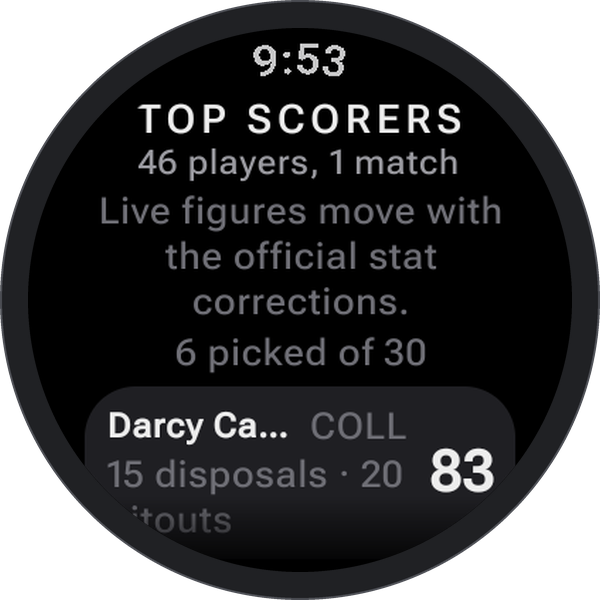
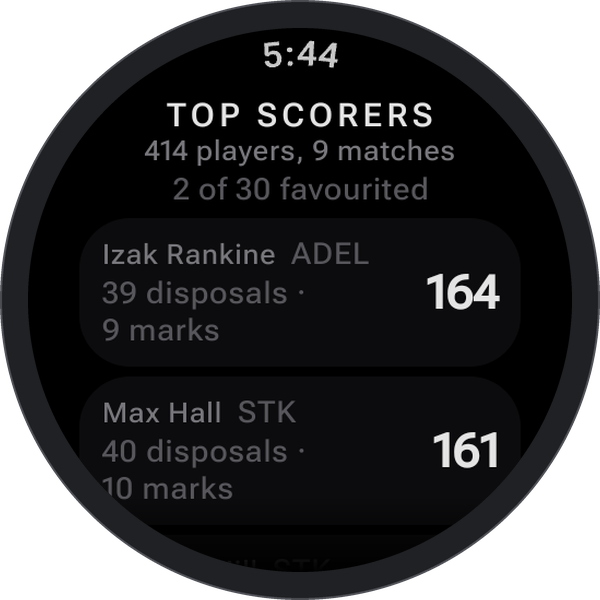
Reshoot the site from the live watch, and say what 1.2.0 added
Every Wear image on the page is a fresh capture taken off the watch during
round 23 with two matches live, rather than a mix of captures from three
different weekends.

The alt text went with them. It described the old pictures down to the
scoreline, so leaving it would have had the page assert Carlton 106 beside
a picture of Carlton 53.

Three things on the page were no longer true:

  - AFLW was illustrated but never claimed to be live, because until this
    release it was not. It now updates during the match.
  - The ladder gallery slot showed the Apple table under a caption about
    column headings and percentage, which only the Wear table has. The
    picture now matches the words - the same caption/image mismatch this
    page has already been caught out by twice.
  - "A line drawn at the top eight" has not been the finals format since
    2025. The app draws one after sixth and another after tenth.

make_shots.py could no longer find a single source: the store set was
renumbered when it was recaptured. It now names the folder it reads from
in the failure, and the three screens the page shows that the store set
has no room for live in their own folder so recapturing one cannot empty
the other.

Claude-Session: https://claude.ai/code/session_01Q4DnvPAu4Pm5cXcWpZ1qkt

Changed region(s): [[0.15, 0.06, 0.84, 0.63], [0.15, 0.66, 0.69, 0.9], [0.72, 0.72, 0.84, 0.84]]

diff --git a/index.html b/index.html
@@ -98,7 +98,7 @@
       <div class="feature feature-lead">
         <figure class="shot shot-round">
           <img src="img/w-round.png" width="300" height="300" loading="lazy" decoding="async"
-               alt="A round watch showing AFL Round 22: Carlton 106, St Kilda 62 at full time, and Collingwood 117, West Coast 98 below it.">
+               alt="A round watch showing AFL Round 23, two matches live: Carlton 53 and the Bulldogs 53 in the third quarter, with Sydney 18 and Essendon 12 in the first beneath it.">
         </figure>
         <div>
           <h2>Live Scores</h2>
@@ -110,12 +110,13 @@
       <div class="feature feature-flip">
         <figure class="shot shot-round">
           <img src="img/w-aflw.png" width="300" height="300" loading="lazy" decoding="async"
-               alt="A round watch showing AFLW Round 1: Melbourne against Hawthorn, live, with the men's round 22 results below.">
+               alt="A round watch showing AFLW Round 1, one match live: West Coast 1.2 (8) against GWS 2.0 (12) in the first quarter, with a completed match beneath it.">
         </figure>
         <div>
           <h2>Both Codes</h2>
           <p>AFL and AFLW each get their own block, with their own round above it.</p>
-          <p>In August one is on round 22 and the other on round 1. You can read both without working out which is which.</p>
+          <p>In August one is on round 23 and the other on round 1. You can read both without working out which is which.</p>
+          <p>AFLW scores now move while the match is on, quarter and clock included, rather than arriving at the final siren.</p>
           <p>Turn either off if you only follow the one.</p>
         </div>
       </div>
@@ -124,11 +125,11 @@
       <div class="feature feature-flip">
         <figure class="shot shot-round">
           <img src="img/w-fantasy.png" width="300" height="300" loading="lazy" decoding="async"
-               alt="Top scorers on a round watch: 46 players across 1 match, with Darcy on 83 from 15 disposals and 20 hitouts.">
+               alt="Top scorers on a round watch: 414 players across 9 matches, with Izak Rankine on 164 from 39 disposals and 9 marks.">
         </figure>
         <div>
           <h2>Fantasy Scores</h2>
-          <p>Top scorers for the day, with AFL Fantasy and DreamTeam points worked out live from the play by play.</p>
+          <p>Top scorers for the round, with AFL Fantasy and DreamTeam points worked out live from the play by play.</p>
           <p>Tap players to follow your own squad, and watch their totals move during the game.</p>
           <p class="small">On both watches.</p>
         </div>
@@ -137,7 +138,7 @@
       <div class="feature feature-flip">
         <figure class="shot shot-round">
           <img src="img/w-match.png" width="300" height="300" loading="lazy" decoding="async"
-               alt="One match at Marvel Stadium: Carlton 106 from 16.10, St Kilda 62 from 8.14, with the score by quarter beneath.">
+               alt="One match at Marvel Stadium at half time: Carlton 41 from 6.5, the Bulldogs 46 from 7.4, with the score by quarter beneath.">
         </figure>
         <div>
           <h2>Match Detail</h2>
@@ -148,7 +149,7 @@
       <div class="feature">
         <figure class="shot shot-round">
           <img src="img/w-goals.png" width="300" height="300" loading="lazy" decoding="async"
-               alt="The goal feed: M. Hall for St Kilda in the last quarter making it 106 to 62, then T. Byrne for Carlton.">
+               alt="The goal feed: P. Cripps for Carlton in the second quarter making it 41 to 46, then J. Dolan for the Bulldogs.">
         </figure>
         <div>
           <h2>Every Goal</h2>
@@ -159,7 +160,7 @@
       <div class="feature feature-flip">
         <figure class="shot shot-round">
           <img src="img/w-spoilers.png" width="300" height="300" loading="lazy" decoding="async"
-               alt="The round with every score hidden: dashes where the numbers would be, and the note that a match is final.">
+               alt="The round with every score hidden: dashes where the numbers would be, with a match still marked live and at half time.">
         </figure>
         <div>
           <h2>Spoiler Free</h2>
@@ -178,9 +179,9 @@
 
       <div class="gallery">
         <figure>
-          <img src="img/a-ladder.png" width="200" height="234" loading="lazy" decoding="async"
-               alt="The ladder on Apple Watch: Fremantle first on 72 points, Sydney second on 64, Hawthorn third on 58, with percentages beside them.">
-          <figcaption><strong>The ladder.</strong> Points, record and percentage, with a line drawn at the top eight.</figcaption>
+          <img src="img/w-ladder.png" width="230" height="230" loading="lazy" decoding="async"
+               alt="The ladder after round 23 under W-L, percentage and points headings: Freo first on 76, Swans 64, Lions 60, Hawks 60.">
+          <figcaption><strong>The ladder.</strong> Record, percentage and points under their own headings, with your club picked out, a line after sixth for the clubs with the week off and another after tenth for the cut.</figcaption>
         </figure>
         <figure>
           <img src="img/w-finals.png" width="230" height="230" loading="lazy" decoding="async"
@@ -189,8 +190,8 @@
         </figure>
         <figure>
           <img src="img/w-tile.png" width="230" height="230" loading="lazy" decoding="async"
-               alt="The tile: Collingwood 81, West Coast 66 live in the third quarter, with three more matches beneath.">
-          <figcaption><strong>Tiles and complications.</strong> Your club on the watch face, one swipe from anywhere. There is a tile for each code, so you add the football you want.</figcaption>
+               alt="The ladder tile: West Coast sixteenth on 16 points across the top, then the leading six clubs with percentage and points.">
+          <figcaption><strong>Tiles and complications.</strong> One swipe from the watch face: the scores for each code, the latest goals, fantasy scores, and the ladder with your club above it. Add the ones you want.</figcaption>
         </figure>
       </div>
     </div>

diff --git a/tools/make_shots.py b/tools/make_shots.py
@@ -17,7 +17,20 @@ import pathlib
 from PIL import Image, ImageDraw
 
 OUT = pathlib.Path(__file__).resolve().parent.parent / "img"
+
+# The Play store set, recaptured from the watch each release.
 WEAR_SRC = pathlib.Path(r"C:\Users\jwden\FootyWear\docs\store\wear")
+
+# ⚠ THE SITE SHOWS SCREENS THE STORE SET DOES NOT, AND THIS IS WHERE THEY LIVE. Play takes at
+# most EIGHT screenshots and the page illustrates nine things, so three of the site's images have
+# never been in the store set - and on 16 Aug, when the store set was recaptured and renamed, this
+# script broke: it was still asking for wear-05-spoiler-mode, wear-06-finals and wear-04-club-theme
+# by their old names and would have reported every source missing.
+#
+# A second folder rather than a longer store set, because the two are chosen for different reasons:
+# the store set is the eight that sell the app, this is whatever the page happens to show. Keeping
+# them apart means recapturing one cannot silently empty the other.
+WEAR_SITE_SRC = pathlib.Path(r"C:\Users\jwden\FootyWear\docs\store\wear-site")
 
 # The app's own palette, so the frames belong to the product rather than to a stock kit.
 INK = (10, 10, 11)
@@ -95,43 +108,54 @@ def main() -> int:
     OUT.mkdir(parents=True, exist_ok=True)
 
     print("Wear (round, masked):")
+    # (source folder, source file) -> the name the page asks for.
+    #
+    # ⚠ THE FILENAMES ON THE LEFT ARE THE STORE SET'S AND THE STORE SET GETS RENUMBERED. It was
+    # renumbered on 16 Aug when the whole set was recaptured from the watch, which is what turned
+    # this dictionary into eight missing sources. If this script reports one, look at what is in
+    # docs/store/wear before assuming a capture failed.
     wear = {
-        "wear-01-scoreboard.png": "w-round.png",
-        "wear-02-match-detail.png": "w-match.png",
-        "wear-05-spoiler-mode.png": "w-spoilers.png",
-        "wear-06-finals.png": "w-finals.png",
-        "wear-07-tile.png": "w-tile.png",
-        "wear-08-goal-feed.png": "w-goals.png",
-        "wear-04-club-theme.png": "w-club.png",
+        (WEAR_SRC, "wear-01-scoreboard.png"): "w-round.png",
+        (WEAR_SRC, "wear-02-match-detail.png"): "w-match.png",
+        (WEAR_SRC, "wear-03-goal-feed.png"): "w-goals.png",
+        (WEAR_SRC, "wear-07-tile.png"): "w-tile.png",
+        # THE LADDER GALLERY SLOT USED TO BE THE APPLE CAPTURE, and on 16 Aug its caption stopped
+        # being true of it: the Wear table gained column headings and a percentage column, the
+        # caption was updated to say so, and the picture beside it showed neither. Same
+        # caption/image mismatch as the fantasy section, so the same answer - show the screen the
+        # words are about. Apple still has the whole "Two watches" section to itself.
+        (WEAR_SRC, "wear-05-ladder.png"): "w-ladder.png",
         # THE SECOND COMPETITION, WITH ITS OWN HEADING. Added 13 Aug with the sectioned board.
         # The page claimed "AFL and AFLW in the one app" and illustrated it with nothing, which
         # is the one line on the page a reader is most likely to want proof of.
-        "wear-09-aflw-section.png": "w-aflw.png",
+        (WEAR_SRC, "wear-06-aflw.png"): "w-aflw.png",
+        # ⚠ THE REAL FANTASY SCREEN, not a stand-in. This used to come from a layout-audit folder
+        # rather than the store set, and the first cut of the fantasy section on the site was
+        # illustrated with the GOAL FEED under alt text describing fantasy scorers - the same
+        # caption/image mismatch already caught once on the ladder. It is now a store capture, so
+        # the picture on the page and the picture on Play are the same screen.
+        (WEAR_SRC, "wear-08-top-scorers.png"): "w-fantasy.png",
+        # The three the store set has no room for. See WEAR_SITE_SRC.
+        (WEAR_SITE_SRC, "wear-05-spoiler-mode.png"): "w-spoilers.png",
+        (WEAR_SITE_SRC, "wear-06-finals.png"): "w-finals.png",
+        (WEAR_SITE_SRC, "wear-04-club-theme.png"): "w-club.png",
     }
-    missing = [s for s in wear if not (WEAR_SRC / s).exists()]
+    missing = [f"{d.name}/{s}" for (d, s) in wear if not (d / s).exists()]
     if missing:
         print(f"  MISSING SOURCES: {missing}")
         return 1
-    for s, d in wear.items():
-        round_watch(WEAR_SRC / s, OUT / d)
-
-    # ⚠ THE REAL FANTASY SCREEN, not a stand-in. The fantasy captures were taken for a layout
-    # audit rather than for the store, so they sit in a different folder and are easy to miss. The
-    # first cut of the fantasy section on the site was illustrated with the GOAL FEED under alt
-    # text describing fantasy scorers, which is the same caption/image mismatch already caught once
-    # on the ladder. An image that contradicts its own caption is worse than no image.
-    fan_src = pathlib.Path(r"C:\Users\jwden\FootyWear\docs\screenshots\fantasy_192")
-    if (fan_src / "fantasy_top.png").exists():
-        print("Fantasy (round, masked):")
-        round_watch(fan_src / "fantasy_top.png", OUT / "w-fantasy.png")
-    else:
-        print("  MISSING the fantasy capture")
+    for (folder, s), d in wear.items():
+        round_watch(folder / s, OUT / d)
 
     apple_src = pathlib.Path(
         r"C:\Users\jwden\AppData\Local\Temp\claude\C--Users-jwden--local-bin"
         r"\d9e0b64f-f287-4fc3-a418-472e979aec47\scratchpad\apple")
     # Only the frames the page actually uses. Generating the rest just leaves dead weight in the
     # repo that looks like it is on the site and is not.
+    #
+    # a-ladder went out of use on 16 Aug when the gallery slot moved to the Wear table - it is
+    # kept here because the Apple ladder is one edit away from being wanted again and the
+    # capture folder is a temp path that will not survive being needed later.
     APPLE_USED = {"a2_scoreboard": "a-scoreboard.png", "a3_ladder": "a-ladder.png"}
     if apple_src.exists():
         print("Apple (rounded rectangle):")
